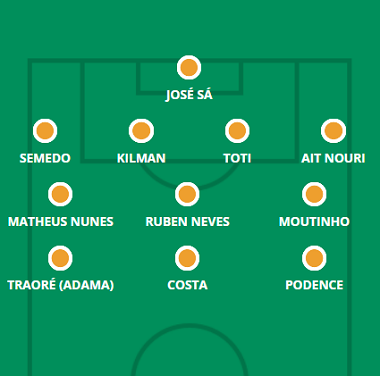
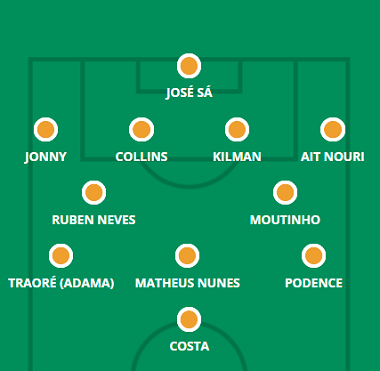
palace e wolves

diff --git a/palace.html b/palace.html
@@ -68,7 +68,7 @@
             <hgroup>
                 <h1> Provável Escalação</h1>
                 <h2 class="direita"> por FabioVascão </h2>
-                <h3 class="direita"> Atualizado em 14/Outubro/2022 </h3>
+                <h3 class="direita"> Atualizado em 17/Outubro/2022 </h3>
             </hgroup>
     
             <h2 class="time"> <img src="_fotos/_logos/logopalace.png" />Crystal Palace</h2>
@@ -77,9 +77,9 @@
                     <img src="_fotos/_dinamicas/palace.png" />
                 </figure>
             </aside>
-                <div class="escalacao"><h2 class="titulo">Ultimas Notícias</h2> <h4><p>O Palace não tem novas preocupações com lesões, embora Will Hughes não faça parte da equipe neste fim de semana devido a uma doença. Patrick Vieira também se esquivou de uma pergunta sobre se algum de seus jogadores lesionados estaria de volta, com Nathaniel Clyne (lesão no tornozelo), James McArthur (lesão navirilha) e Chris Richards (lesão na coxa) na lista de lesões da última vez que ouvimos e Nathan Ferguson (lesão no pé) e Jack Butland (lesão na mão) só recentemente voltou a treinar após longas paradas. Vieira certamente não repetirá a experiência de 'Jeffrey Schlupp na lateral esquerda' após as dificuldades do internacional de Gana na semana passada, os rumores são de que Tyrick Mitchell não estava bem à frente daquele jogo contra o Leeds, o que explicaria seu banco. Schlupp ainda pode manter seu lugar, no entanto, voltando ao seu papel habitual no meio-campo central se Vieira considerar que a configuração ofensiva das últimas semanas está muito aberta para uma partida fora de casa contra um time do Leicester que ainda está marcando bem, apesar de suas dificuldades. atrás. Michael Olise, muitas vezes parado na estrada às custas de Jordan Ayew na última temporada, pode, portanto, abrir caminho.</p></h4><br>
-                    <h4><strong>Jogadores fora da próxima partida:</strong> Clyne, Hughes e McArthur</h4><br><br>
-                    <h4><strong>Jogadores dúvidas:</strong> Butland, Ferguson e Richards</h4>
+                <div class="escalacao"><h2 class="titulo">Ultimas Notícias</h2> <h4><p>O Palace não tem novas preocupações com lesões no jogo dos Wolves, embora Will Hughes ainda não faça parte do elenco devido a uma doença. Chris Richards (coxa) e James McArthur (virilha) também permanecem fora dos gramados e Nathan Ferguson (ritmo) em forma de novo provavelmente ganhará tempo de jogo com os sub-21 antes de entrar na disputa pelo time principal, enquanto não tinha uma atualização sobre Nathaniel Clyne por um tempo; o zagueiro está se recuperando de uma distenção, mas não deve estar muito longe de um retorno com base no prognóstico anterior de Patrick Vieira. Se Tyrick Mitchell está 100% em forma é outra questão, embora Vieira tenha enfatizado que a retirada antecipada do zagueiro no sábado foi técnica e não forçada. Jeffrey Schlupp e Jairo Riedewald são os reservas na lateral-esquerda, se necessário, além de serem opções no meio do parque. Certamente veremos Michael Olise reintroduzido para este confronto, já que é em casa e com Vieira dizendo no pré-jogo de segunda-feira que as águias precisam "ser mais agressivas para marcar", então Jordan Ayew vai cair de volta ao meio-campo ou fora do lado completamente. Foi apenas nessas três posições (lateral-esquerdo, meio-campo direito e ala direita) onde houve alguma incerteza desde o intervalo internacional, embora a virada de sábado para terça-feira possa dar a Jean-Philippe Mateta uma chance de impressionar se a fadiga for um fator.</p></h4><br>
+                    <h4><strong>Jogadores fora da próxima partida:</strong> Richards, Hughes e McArthur</h4><br><br>
+                    <h4><strong>Jogadores dúvidas:</strong> Butland, Ferguson e Clyne</h4>
                 </div> 
         </header>
         </article>

diff --git a/wolves.html b/wolves.html
@@ -68,7 +68,7 @@
             <hgroup>
                 <h1> Provável Escalação</h1>
                 <h2 class="direita"> por FabioVascão </h2>
-                <h3 class="direita"> Atualizado em 14/Outubro/2022 </h3>
+                <h3 class="direita"> Atualizado em 17/Outubro/2022 </h3>
             </hgroup>
     
             <h2 class="time"> <img src="_fotos/_logos/logowolves.png" />Wolverhampton</h2>
@@ -77,8 +77,8 @@
                     <img src="_fotos/_dinamicas/wolves.png" />
                 </figure>
             </aside>
-                <div class="escalacao"><h2 class="titulo">Ultimas Notícias</h2> <h4><p>Pedro Neto (lesão no tornozelo), Sasa Kalajdzic (lesão no joelho), Chiquinho (lesão no joelho) e Raul Jimenez (lesão na virilha) estão na lista de lesões e Nathan Collins continua suspenso, mas Ruben Neves regressa de um jogo de castigo e Boubacar Traore (covid) de volta para a visita de Nottingham Forest. Neves certamente voltará ao onze inicial para este, com João Moutinho ou um dos quatro primeiros da semana passada abrindo caminho: o dinheiro estaria em Gonçalo Guedes, que teve um primeiro tempo sombrio no Chelsea, embora tenha sofrido uma pancada. O jovem Joe Hodge estará pressionando por mais tempo de jogo depois de aparecer no segundo tempo em Stamford Bridge, enquanto as dificuldades de Nelson Semedo e Jonny na lateral podem abrir caminho para o retorno de Rayan Ait-Nouri. Diego Costa parece pronto para começar de novo, com Hwang Hee-chan ou Guedes pronto para ser um alívio no segundo tempo para o veterano espanhol quando ele inevitavelmente ficar sem gás.</p></h4><br>
-                    <h4><strong>Jogadores fora da próxima partida:</strong> Raúl Jiménez, Kalajdzic, Neto (Pedro), Chiquinho e Collins</h4><br><br>
+                <div class="escalacao"><h2 class="titulo">Ultimas Notícias</h2> <h4><p>Pedro Neto (tornozelo), Sasa Kalajdzic (joelho), Chiquinho (joelho) e Raul Jimenez (virilha) continuam na lista de lesões, mas Nathan Collins retorna de uma suspensão de três jogos para a partida de terça-feira e provavelmente entrará no lugar de Toti Gomes no centro -metade. Quaisquer outras mudanças podem ser mais cansativas após a vitória de sábado sobre o Nottingham Forest, com opções de Hwang Hee-chan ou Gonçalo Guedes na frente e Boubacar Traoré uma alternativa no meio-campo, se os veteranos Diego Costa e João Moutinho não estiverem a duas partidas pouco mais de 72 partidas. A única outra alteração viável envolveria Nelson Semedo entrando como lateral para Rayan Ait-Nouri ou Jonny, mas o chefe interino Steve Davis elogiou o papel do primeiro na 11°Rodada em seu pré-jogo e o último continua sendo um titular sempre presente. em 2022/23, apesar de algumas exibições abaixo da média.</p></h4><br>
+                    <h4><strong>Jogadores fora da próxima partida:</strong> Raúl Jiménez, Kalajdzic, Neto (Pedro) e Chiquinho</h4><br><br>
                     <h4><strong>Jogadores dúvidas:</strong> </h4>
                 </div> 
         </header>
